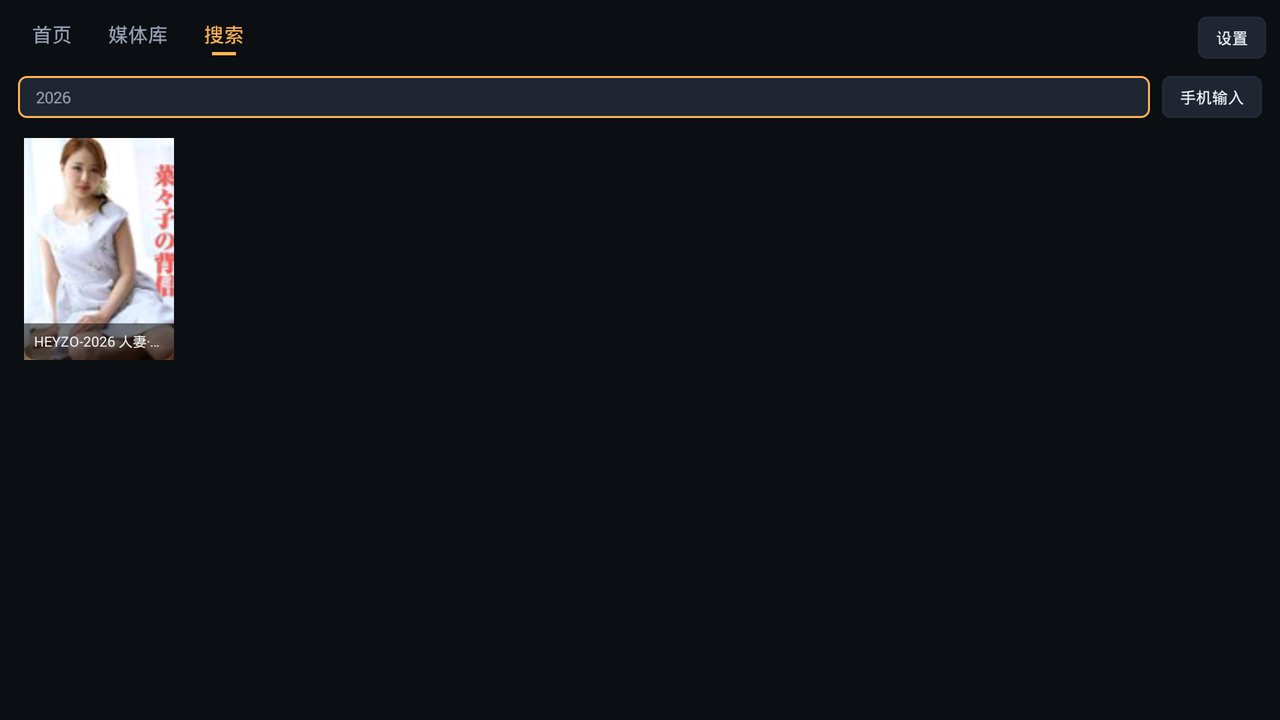
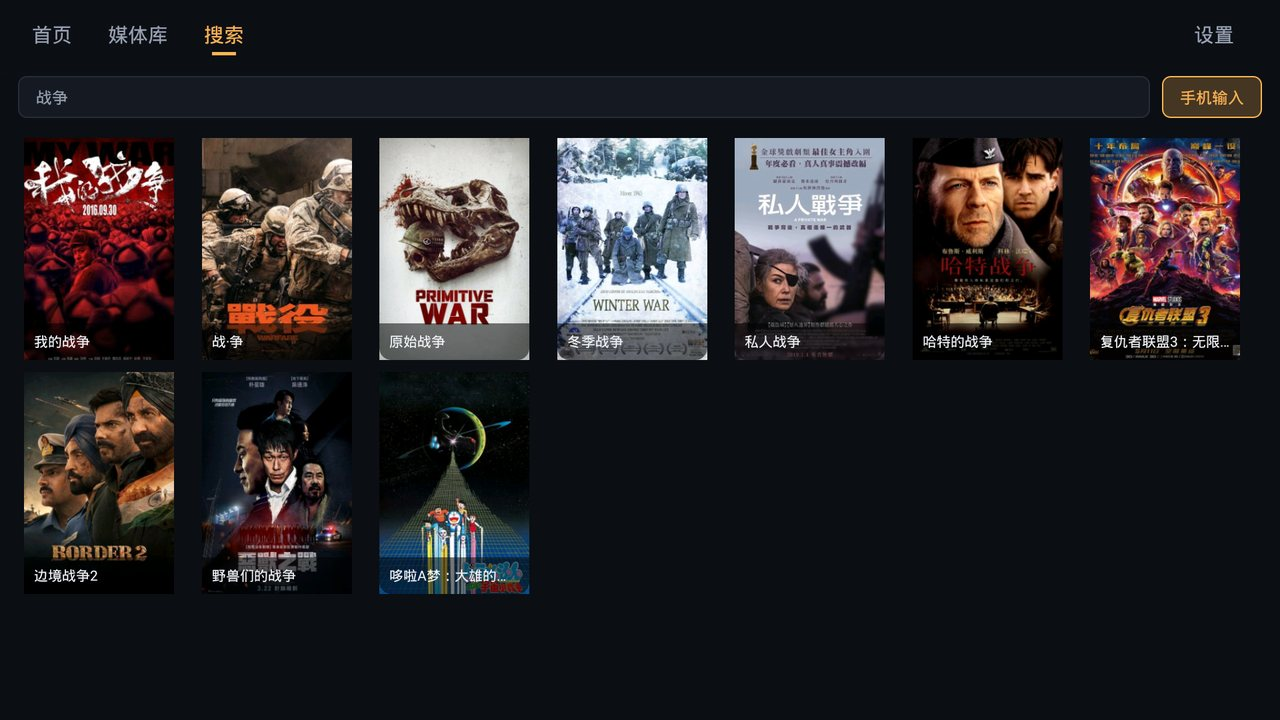
docs: 搜索页截图换成真实的搜索结果
原来那张 docs/images/search.jpg 是空搜索框 + 一句引导语，看着像没做完。
换成手机上用「手机输入」搜「战争」的结果页：搜索框带关键词、10 张海报、
右上角「手机输入」入口都在画面里。

顺带补三条电视上实测出来的坑（uiautomator dump 被 OOM 干掉、
壳里没有 tail/grep、am start 必须 --user 0 且 force-stop 无权限、
run-as 在这台 ROM 上是坏的）。

Changed region(s): [[0.0, 0.0, 1.0, 0.825]]

diff --git a/AGENTS.md b/AGENTS.md
@@ -150,6 +150,23 @@ adb pull /data/local/tmp/w.xml dist/
 > 解析 bounds 要用 `[regex]::Match($a.bounds,'\[(\d+),')`，
 > 用 `-replace '\D',' '` split 取 index 0 会拿到空串导致误判。
 >
+> ⚠ **`uiautomator dump` 会被 OOM Killer 干掉**（2026-11-17 实测）：电视内存吃紧时
+> 它起不来，`adb shell "uiautomator dump /data/local/tmp/w.xml 2>&1"` 只回一个字 `Killed`，
+> 文件根本不生成，`adb pull` 报 `remote object ... does not exist`。
+> → 看着像「命令写错了 / 路径不对」，其实是内存不够，**别去改路径、别去建目录**。
+> → 先 `adb shell "ps | grep myembyhub"` 看进程在不在，再决定要不要放弃 dump 改成人工看。
+>
+> ⚠ **壳里没有 `tail` / `grep` / `head`**（这台 ROM 的 toybox 裁得很狠）：
+> `adb shell "df /sdcard | tail -2"` 报 `tail: not found`；
+> `pm list packages | grep xxx` 静默返回空（看起来像「没装」，其实是 grep 不存在）。
+> → 过滤一律在**本机 PowerShell 里做**（`& $adb shell "pm list packages" | Select-String xxx`）。
+>
+> ⚠ **`am start` 必须带 `--user 0`**：不带会报
+> `SecurityException: startActivity asks to run as user -2 but is calling from user 0`。
+> **`am force-stop` 直接没权限**：`Permission Denial: forceStopPackage() ... requires
+> android.permission.FORCE_STOP_PACKAGES` → 想重启 App 只能靠人按遥控器退出，
+> 或者 `am start` 到另一个 Activity 顶掉。
+>
 > ⚠ `adb shell input keyevent` **无法操作别的应用的窗口**：
 > `input` 是从 shell 进程（uid 2000）注入，目标是别的 uid（如系统安装器 uid 10014）时会报
 > `SecurityException: Injecting to another application requires INJECT_EVENTS permission`。
@@ -192,8 +209,13 @@ adb shell am start --user 0 -a android.intent.action.VIEW \
 - `SSLSocket.getProtocol()` / `getCipherSuite()` / `SSLSocketFactory.getSupportedProtocols()`
   在公开 SDK stub 里是 `@hide`，编译期引用不到 → **只能反射**。
 - `screencap` 在这台 ROM 上输出 0 字节（截图不可用）。
-- `dumpsys activity` / `dumpsys window` 需要 DUMP 权限，shell 没有 →
+- `dumpsys activity` / `dumpsys window` / **`dumpsys package`** 都需要 DUMP 权限，shell 没有
+  （`Permission Denial: can't dump ActivityManager ... without permission android.permission.DUMP`）→
   判断状态用 `pm path`、`ls -l /data/app/...`、`ps`、`logcat`。
+- **`run-as` 在这台 ROM 上是坏的**：`run-as <包名> ...` 一律回
+  `run-as: Package '<包名>' is unknown`，哪怕 `pm path` 能查出包、`/data/data/<包名>` 也在。
+  → 想看 App 的 SharedPreferences / 内部文件（比如确认有没有登录态），这条路走不通，
+  只能让 App 自己把状态显示在界面上，或者靠服务端/日志推断。
 - **`adb shell input keyevent` 无法操作别的应用的窗口**：`input` 是从 shell 进程（uid 2000）注入，
   目标是别的 uid（如系统安装器 uid 10014）时会报
   `SecurityException: Injecting to another application requires INJECT_EVENTS permission`。
